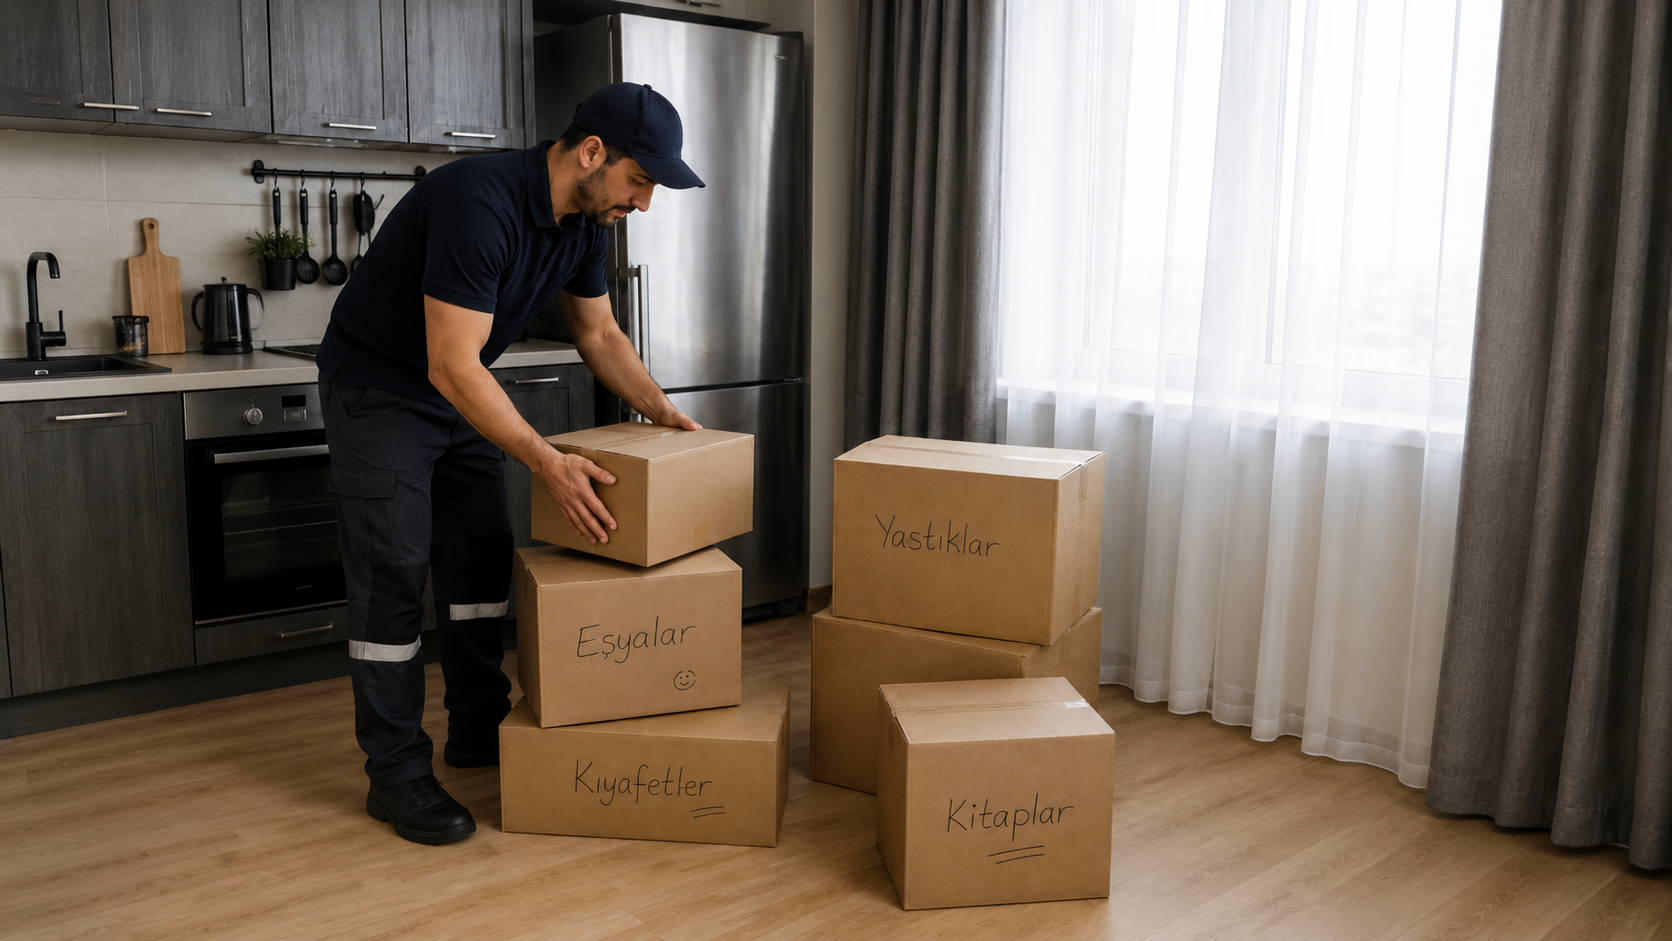
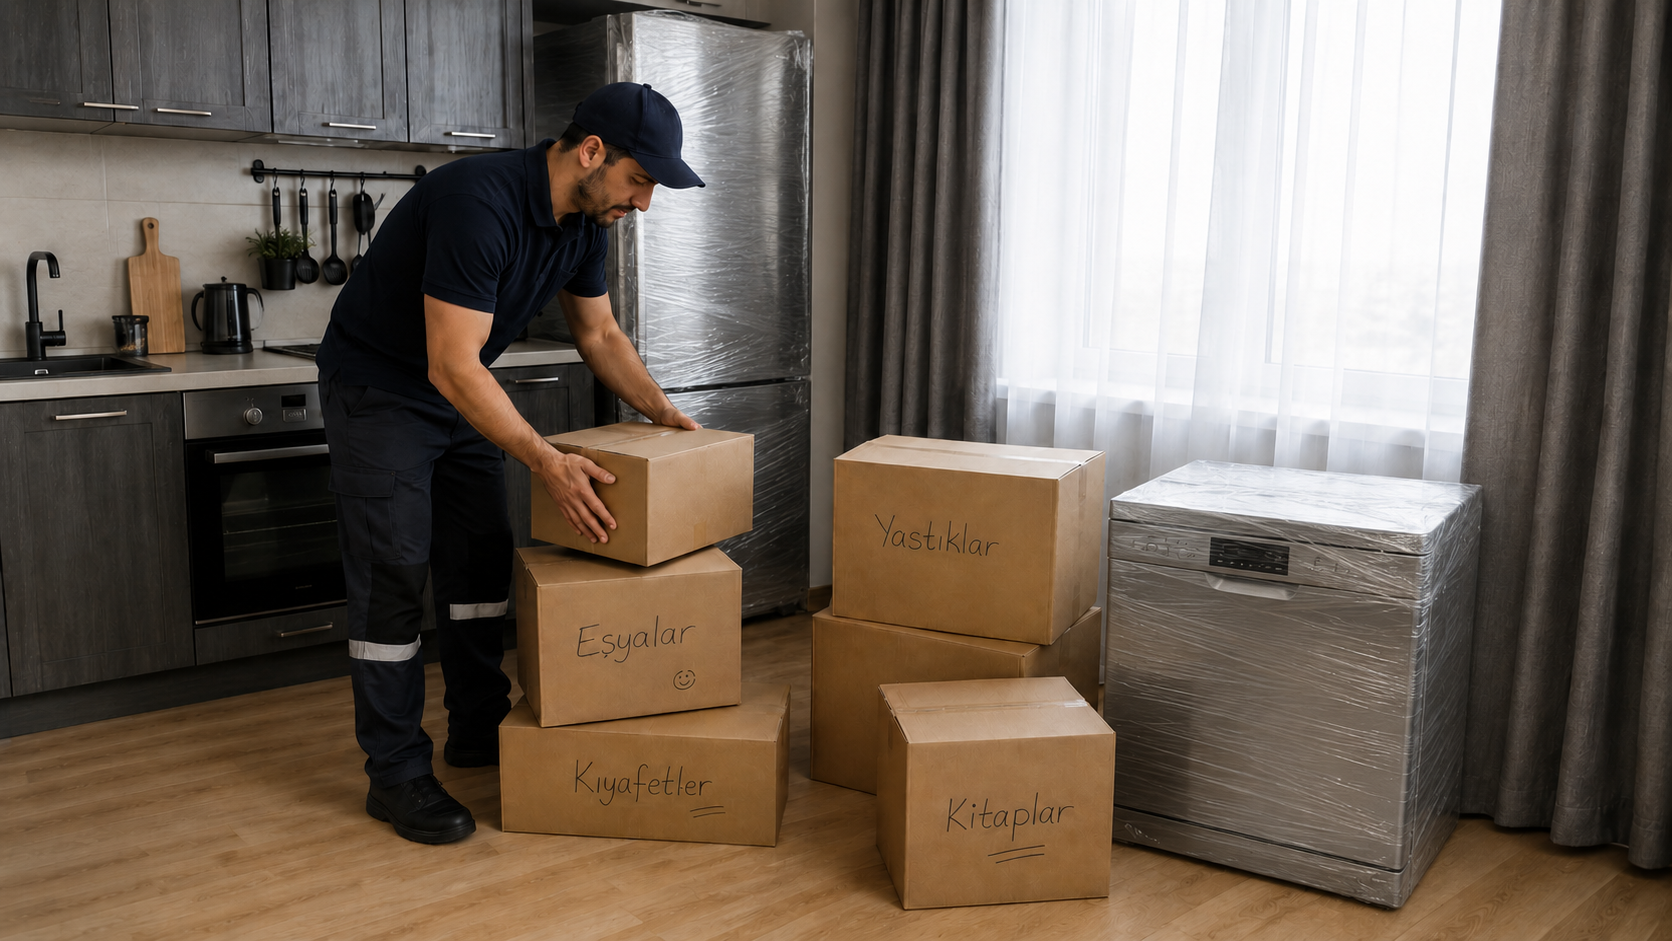
Add files via upload

diff --git a/index.html b/index.html
@@ -14,7 +14,7 @@ nav{display:flex;gap:20px;font-size:15px;font-weight:650;color:#334155}nav a:hov
 .btn{border:0;border-radius:999px;padding:12px 17px;font-weight:750;display:inline-flex;align-items:center;justify-content:center;gap:8px;cursor:pointer;transition:.2s;white-space:nowrap}.btn:hover{transform:translateY(-2px)}.blue{background:var(--blue);color:#fff;box-shadow:0 12px 26px rgba(37,99,235,.2)}.green{background:var(--green);color:#fff;box-shadow:0 12px 26px rgba(22,163,74,.18)}.light{background:#fff;border:1px solid var(--line)}
 .hero{padding:54px 0 50px;background:radial-gradient(circle at 12% 15%,rgba(37,99,235,.15),transparent 30%),radial-gradient(circle at 87% 10%,rgba(22,163,74,.12),transparent 28%),linear-gradient(135deg,#f8fafc,#eff6ff)}.hero-grid{display:grid;grid-template-columns:.95fr 1.05fr;gap:44px;align-items:center}.pill{display:inline-flex;gap:8px;background:rgba(37,99,235,.08);border:1px solid rgba(37,99,235,.18);color:#1e40af;border-radius:999px;padding:8px 13px;font-size:14px;font-weight:750;margin-bottom:17px}
 h1{font-size:clamp(36px,4.7vw,58px);line-height:1.05;letter-spacing:-.035em;font-weight:690;margin-bottom:17px}h2{font-size:clamp(30px,4.2vw,46px);line-height:1.08;letter-spacing:-.035em;font-weight:700}h3{font-weight:700;letter-spacing:-.025em}.lead{font-size:17px;color:#475569;max-width:600px;margin-bottom:16px}.price-note{background:#fff;border:1px solid #dbeafe;border-radius:19px;padding:13px 15px;color:#334155;margin:0 0 22px;box-shadow:0 10px 24px rgba(15,23,42,.04);max-width:600px}.price-note strong{color:#1d4ed8}.hero-actions{display:flex;gap:12px;flex-wrap:wrap;margin-bottom:20px}.trust{display:grid;grid-template-columns:repeat(3,1fr);gap:10px;max-width:600px}.trust div{background:rgba(255,255,255,.82);border:1px solid var(--line);border-radius:17px;padding:13px}.trust strong{display:block;font-size:17px}.trust span{font-size:13px;color:var(--muted)}
-.phone{background:#f0fdf4;border:1px solid #bbf7d0;border-radius:34px;box-shadow:var(--shadow);overflow:hidden;padding:14px;width:100%;max-width:640px;margin-left:auto}.phone-inner{background:#efeae2;border-radius:26px;overflow:hidden;min-height:auto;position:relative}.wa-head{height:62px;background:#075e54;color:white;display:flex;align-items:center;gap:10px;padding:0 14px}.avatar{width:38px;height:38px;border-radius:50%;background:#22c55e;display:grid;place-items:center;font-weight:800}.wa-head small{display:block;color:#d1fae5;font-size:12px}.wa-screen{height:430px;position:relative;overflow:hidden;background:#efeae2}.chat{position:absolute;inset:0;padding:13px;display:flex;flex-direction:column;gap:7px;overflow:hidden;transition:.45s ease}.phone-inner.show-gallery .chat{opacity:0;transform:translateY(-12px);pointer-events:none}.bubble{max-width:80%;padding:8px 10px;border-radius:14px;font-size:13.5px;box-shadow:0 1px 1px rgba(0,0,0,.06);animation:pop .28s ease}.user{align-self:flex-start;background:#fff;border-bottom-left-radius:4px}.us{align-self:flex-end;background:#d9fdd3;border-bottom-right-radius:4px}.system-msg{align-self:center;background:rgba(255,255,255,.72);color:#64748b;border-radius:999px;padding:6px 10px;font-size:12px;font-weight:650}@keyframes pop{from{opacity:0;transform:translateY(8px) scale(.98)}to{opacity:1;transform:none}}.process-gallery{position:absolute;inset:0;opacity:0;pointer-events:none;transition:.5s ease;background:#0f172a}.phone-inner.show-gallery .process-gallery{opacity:1;pointer-events:auto}.process-slide{position:absolute;inset:0;opacity:0;transition:.5s ease;display:grid;place-items:end start;overflow:hidden}.process-slide.active{opacity:1}.process-slide img{position:absolute;inset:0;width:100%;height:100%;object-fit:cover;object-position:center;display:block}.process-slide::after{content:"";position:absolute;inset:0;background:linear-gradient(180deg,rgba(15,23,42,.04),rgba(15,23,42,.72))}.process-fallback{position:absolute;inset:0;display:grid;place-items:center;font-size:62px;background:linear-gradient(135deg,#dbeafe,#f8fafc)}.process-caption{position:relative;z-index:2;color:white;padding:20px;width:100%}.process-caption b{display:block;font-size:21px;line-height:1.25;text-shadow:0 2px 10px rgba(0,0,0,.35)}.process-caption span{display:block;margin-top:4px;color:rgba(255,255,255,.86);font-size:13px;font-weight:600}.process-dots{position:absolute;left:14px;right:14px;top:12px;z-index:4;display:flex;gap:5px}.process-dot{height:4px;flex:1;border-radius:999px;background:rgba(255,255,255,.38);overflow:hidden}.process-dot.active{background:white}
+.phone{background:#f0fdf4;border:1px solid #bbf7d0;border-radius:34px;box-shadow:var(--shadow);overflow:hidden;padding:14px;width:100%;max-width:640px;margin-left:auto}.phone-inner{background:#efeae2;border-radius:26px;overflow:hidden;min-height:auto;position:relative}.wa-head{height:62px;background:#075e54;color:white;display:flex;align-items:center;gap:10px;padding:0 14px}.avatar{width:38px;height:38px;border-radius:50%;background:#22c55e;display:grid;place-items:center;font-weight:800}.wa-head small{display:block;color:#d1fae5;font-size:12px}.wa-screen{height:430px;position:relative;overflow:hidden;background:#efeae2}.chat{position:absolute;inset:0;padding:13px;display:flex;flex-direction:column;gap:7px;overflow-y:auto;scrollbar-width:none;transition:.45s ease}.phone-inner.show-gallery .chat{opacity:0;transform:translateY(-12px);pointer-events:none}.chat::-webkit-scrollbar{display:none}.bubble{max-width:80%;padding:8px 10px;border-radius:14px;font-size:13.5px;box-shadow:0 1px 1px rgba(0,0,0,.06);animation:pop .28s ease}.user{align-self:flex-start;background:#fff;border-bottom-left-radius:4px}.us{align-self:flex-end;background:#d9fdd3;border-bottom-right-radius:4px}.system-msg{align-self:center;background:rgba(255,255,255,.72);color:#64748b;border-radius:999px;padding:6px 10px;font-size:12px;font-weight:650}@keyframes pop{from{opacity:0;transform:translateY(8px) scale(.98)}to{opacity:1;transform:none}}.process-gallery{position:absolute;inset:0;opacity:0;pointer-events:none;transition:.5s ease;background:#0f172a}.phone-inner.show-gallery .process-gallery{opacity:1;pointer-events:auto}.process-slide{position:absolute;inset:0;opacity:0;transition:.5s ease;display:grid;place-items:end start;overflow:hidden}.process-slide.active{opacity:1}.process-slide img{position:absolute;inset:0;width:100%;height:100%;object-fit:cover;object-position:center;display:block}.process-slide::after{content:"";position:absolute;inset:0;background:linear-gradient(180deg,rgba(15,23,42,.04),rgba(15,23,42,.72))}.process-fallback{position:absolute;inset:0;display:grid;place-items:center;font-size:62px;background:linear-gradient(135deg,#dbeafe,#f8fafc)}.process-caption{position:relative;z-index:2;color:white;padding:20px;width:100%}.process-caption b{display:block;font-size:21px;line-height:1.25;text-shadow:0 2px 10px rgba(0,0,0,.35)}.process-caption span{display:block;margin-top:4px;color:rgba(255,255,255,.86);font-size:13px;font-weight:600}.process-dots{position:absolute;left:14px;right:14px;top:12px;z-index:4;display:flex;gap:5px}.process-dot{height:4px;flex:1;border-radius:999px;background:rgba(255,255,255,.38);overflow:hidden}.process-dot.active{background:white}
 section{padding:64px 0}.head{display:flex;justify-content:space-between;gap:24px;align-items:end;margin-bottom:28px}.head p{max-width:500px;color:var(--muted)}.eyebrow{font-size:13px;color:var(--blue);font-weight:800;text-transform:uppercase;letter-spacing:.11em;margin-bottom:7px}
 .services{display:grid;grid-template-columns:repeat(3,1fr);gap:16px}.service{background:#fff;border:1px solid var(--line);border-radius:var(--r);overflow:hidden;box-shadow:0 10px 28px rgba(15,23,42,.05);transition:.2s}.service:hover{transform:translateY(-3px);box-shadow:var(--shadow)}.thumb{aspect-ratio:16/9;height:auto;background:linear-gradient(135deg,#dbeafe,#f8fafc);display:grid;place-items:center;font-size:52px;position:relative;overflow:hidden}.service:nth-child(2n) .thumb{background:linear-gradient(135deg,#dcfce7,#f8fafc)}.service:nth-child(3n) .thumb{background:linear-gradient(135deg,#ffedd5,#f8fafc)}.thumb small{position:absolute;right:10px;bottom:9px;background:rgba(255,255,255,.85);border-radius:999px;padding:4px 8px;font-size:12px;color:#475569;font-weight:700}.thumb img{width:100%;height:100%;object-fit:cover;display:block}.thumb-fallback{position:absolute;inset:0;display:grid;place-items:center;font-size:52px;z-index:0}.thumb img:not([style*='display: none']) + .thumb-fallback{display:none}.service-body{padding:19px}.service p{color:var(--muted);font-size:15px;margin:8px 0 14px}.link{color:var(--blue);font-weight:750;font-size:14px}
 .steps{background:#fff}.steps-grid{display:grid;grid-template-columns:repeat(4,1fr);gap:14px}.step{background:var(--bg);border:1px solid var(--line);border-radius:20px;padding:20px}.num{width:38px;height:38px;border-radius:13px;background:var(--ink);color:white;display:grid;place-items:center;font-weight:800;margin-bottom:12px}.step p{color:var(--muted);font-size:14px;margin-top:6px}
@@ -37,7 +37,7 @@ footer{background:var(--dark);color:rgba(255,255,255,.72);padding:34px 0 90px}.f
 @keyframes waEnter{from{opacity:0;transform:translateY(18px) scale(.96)}to{opacity:1;transform:translateY(0) scale(1)}}
 @keyframes waNudge{0%,100%{transform:translateY(0)}45%{transform:translateY(-6px)}}
 @media(max-width:960px){nav,.actions{display:none}.menu{display:block}nav.open{display:grid;position:absolute;left:16px;right:16px;top:72px;background:white;border:1px solid var(--line);border-radius:20px;padding:16px;box-shadow:var(--shadow)}.hero-grid,.request-grid,.faq-grid{grid-template-columns:1fr}.phone{margin:0;max-width:100%}.services{grid-template-columns:repeat(2,1fr)}.steps-grid,.districts{grid-template-columns:repeat(2,1fr)}}
-@media(max-width:640px){.top .container{text-align:center;justify-content:center}.hero,section{padding:46px 0}.hero-actions,.form-actions,.modal-actions{flex-direction:column;align-items:stretch}.btn{width:100%}.trust,.services,.steps-grid,.districts,.form-grid{grid-template-columns:1fr}.phone{border-radius:26px;padding:10px}.phone-inner{min-height:auto;border-radius:20px}.wa-screen{height:360px}.head{display:block}.head p{margin-top:10px}.mobile-sticky{display:none}.floating-wa{right:16px;bottom:16px;min-width:220px;height:60px;padding-right:15px}.wa-text strong{font-size:13px}.wa-text small{font-size:11px}.floating-wa.compact{min-width:62px;width:62px;height:62px}.floating-wa.compact .wa-icon{width:62px;height:62px}.floating-wa.compact .wa-icon svg{width:32px;height:32px}.toast{left:16px;right:16px;bottom:88px}}
+@media(max-width:640px){.top .container{text-align:center;justify-content:center}.hero,section{padding:46px 0}.hero-actions,.form-actions,.modal-actions{flex-direction:column;align-items:stretch}.btn{width:100%}.trust,.services,.steps-grid,.districts,.form-grid{grid-template-columns:1fr}.phone{border-radius:24px;padding:8px;max-width:100%}.phone-inner{min-height:auto;border-radius:20px}.wa-screen{height:460px}.head{display:block}.head p{margin-top:10px}.mobile-sticky{display:none}.bubble{font-size:13px;line-height:1.42;padding:7px 9px;max-width:86%}.system-msg{font-size:11.5px;padding:5px 9px}.floating-wa{right:16px;bottom:16px;min-width:220px;height:60px;padding-right:15px}.wa-text strong{font-size:13px}.wa-text small{font-size:11px}.floating-wa.compact{min-width:62px;width:62px;height:62px}.floating-wa.compact .wa-icon{width:62px;height:62px}.floating-wa.compact .wa-icon svg{width:32px;height:32px}.toast{left:16px;right:16px;bottom:88px}}
 </style>
 </head>
 <body>
@@ -57,7 +57,7 @@ footer{background:var(--dark);color:rgba(255,255,255,.72);padding:34px 0 90px}.f
     <p class="lead">Evden eve, parça eşya, şehirler arası, asansörlü, ofis veya özel eşya taşıma için bilgilerinizi paylaşın. Size dönüş yapılması ve sürecin netleşmesi için yardımcı olalım.</p>
     <div class="price-note"><strong>Fiyat konusunda destek:</strong> Güzergâh, eşya durumu ve tarihe göre bütçenize uygun seçeneklerin konuşulmasına yardımcı oluruz. Net fiyat görüşme sırasında belirlenir.</div>
     <div class="hero-actions"><button class="btn green openWhatsapp">WhatsApp’tan Talep Oluştur</button><a class="btn blue" href="#request">Formu Doldur</a></div>
-    <div class="trust"><div><strong>Hızlı dönüş</strong><span>WhatsApp ön görüşme</span></div><div><strong>Uygun çözüm</strong><span>İhtiyaca göre seçenek</span></div><div><strong>Sade süreç</strong><span>Az bilgiyle başlayın</span></div></div>
+    <div class="trust"><div><strong>Hızlı dönüş</strong><span>WhatsApp ön görüşme</span></div><div><strong>Uygun çözüm</strong><span>İhtiyaca göre seçenek</span></div><div><strong>Kolay süreç</strong><span>Sorunsuz ilerlemesi için yardımcı oluruz</span></div></div>
   </div>
   <div class="phone"><div class="phone-inner">
     <div class="wa-head"><div class="avatar">U</div><div><b>Uygun Nakliye İzmir</b><small>çevrimiçi</small></div></div>
@@ -67,8 +67,8 @@ footer{background:var(--dark);color:rgba(255,255,255,.72);padding:34px 0 90px}.f
       <div class="process-gallery" id="processGallery" aria-label="Taşıma süreci görsel slaytları">
         <!-- Görsel eklemek için src değerlerini kendi dosya yollarınızla değiştirin.
              Örnek dosya yapısı:
-             assets/kamyon-dolduruluyor.png, assets/kamyon-dolu.png, assets/kamyon-hareket.png,
-             assets/asansorlu-tasima.png, assets/son-koliler-yeni-ev.png -->
+             assets/kamyon-dolduruluyor.jpg, assets/kamyon-dolu.jpg, assets/kamyon-hareket.jpg,
+             assets/asansorlu-tasima.jpg, assets/son-koliler-yeni-ev.jpg -->
         <div class="process-dots" aria-hidden="true">
           <span class="process-dot active"></span>
           <span class="process-dot"></span>
@@ -141,6 +141,7 @@ footer{background:var(--dark);color:rgba(255,255,255,.72);padding:34px 0 90px}.f
     <button class="district" data-district="Karabağlar"><strong>Karabağlar</strong><span>Ev, iş yeri ve parça eşya</span></button>
     <button class="district" data-district="Çiğli"><strong>Çiğli</strong><span>Ev taşıma ve şehir içi talepler</span></button>
     <button class="district" data-district="Gaziemir"><strong>Gaziemir</strong><span>Şehirler arası ve iş yeri</span></button>
+    <button class="district" data-district="Diğer"><strong>Bunların dışında bir yerdeyim</strong><span>İzmir geneli, çevre ilçeler ve çevre iller</span></button>
   </div>
 </div></section>
 
@@ -171,7 +172,7 @@ footer{background:var(--dark);color:rgba(255,255,255,.72);padding:34px 0 90px}.f
 </div></section>
 </main>
 
-<footer><div class="container footer-grid"><div><strong>Uygun Nakliye İzmir</strong><p>İzmir hızlı nakliye talep ve destek hattı.</p></div><div class="footer-links"><a href="#services">Hizmetler</a><a href="#districts">İlçeler</a><a href="#request">Talep Oluştur</a><a href="#" class="openPolicy">Aydınlatma Metni</a></div></div></footer>
+<footer><div class="container footer-grid"><div><strong>Uygun Nakliye İzmir</strong><p>İzmir hızlı nakliye talep ve destek hattı.</p><p style="font-size:13px;margin-top:8px;color:rgba(255,255,255,.58)">Sitede kullanılan görseller temsilidir. Hizmet detayları, fiyat ve uygunluk talebinize göre görüşme sırasında netleşir.</p></div><div class="footer-links"><a href="#services">Hizmetler</a><a href="#districts">İlçeler</a><a href="#request">Talep Oluştur</a><a href="#" class="openPolicy">Aydınlatma Metni</a></div></div></footer>
 <button class="floating-wa openWhatsapp" aria-label="WhatsApp ile nakliye talebi oluştur">
   <span class="wa-icon" aria-hidden="true">
     <svg viewBox="0 0 64 64" role="img">
@@ -229,7 +230,7 @@ function startProcessGallery(){
     phoneInner.classList.remove("show-gallery");
     c=(c+1)%chats.length;
     runChat();
-  },14200);
+  },15000);
 }
 
 function runChat(){
@@ -240,14 +241,15 @@ function runChat(){
   function next(){
     const arr=chats[c];
     if(m>=arr.length){
-      setTimeout(startProcessGallery,1200);
+      setTimeout(startProcessGallery,2000);
       return;
     }
     const [who,text]=arr[m++], d=document.createElement("div");
     d.className="bubble "+who;
     d.textContent=text;
     chatBox.appendChild(d);
-    setTimeout(next,1750);
+    chatBox.scrollTop=chatBox.scrollHeight;
+    setTimeout(next,1900);
   }
   next();
 }
@@ -312,7 +314,8 @@ const districts={
   "Konak":{desc:"Konak merkezi konumu nedeniyle ofis, küçük ev ve parça eşya taşıma taleplerinde sık kullanılan bir bölgedir. Dar sokak, park ve kat bilgisi fiyatı etkileyebilir.",to:["Bornova","Buca","Karabağlar","Bayraklı","Karşıyaka"],samples:["“Konak’taki ofisten birkaç masa ve dolap taşınacak.”","“Dar sokak olduğu için araç yanaşma durumunu konuşmak istiyoruz.”"]},
   "Karabağlar":{desc:"Karabağlar ev taşıma, iş yeri eşyası ve parça eşya talepleri için değerlendirilebilir. Kat ve asansör bilgisi hızlı fiyat görüşmesi için faydalıdır.",to:["Buca","Konak","Gaziemir","Bornova"],samples:["“Karabağlar’dan Buca’ya ev eşyası taşınacak.”","“Az eşya için uygun bir taşıma arıyoruz.”"]},
   "Çiğli":{desc:"Çiğli çıkışlı veya varışlı taşımalarda Karşıyaka, Bayraklı ve Bornova güzergâhları sık tercih edilebilir. Eşya miktarı ve tarih bilgisini paylaşmanız yeterlidir.",to:["Karşıyaka","Bayraklı","Bornova","Menemen","Konak"],samples:["“Çiğli’den Karşıyaka’ya parça eşya taşınacak.”","“Tarih esnek, uygun fiyatlı taşıma arıyoruz.”"]},
-  "Gaziemir":{desc:"Gaziemir için şehir içi, şehirler arası, iş yeri ve özel eşya taşıma talepleri değerlendirilebilir. Güzergâh ve araç yanaşma bilgisi önemlidir.",to:["Buca","Karabağlar","Konak","Bornova","Menderes","Şehirler arası"],samples:["“Gaziemir’den şehir dışına birkaç parça eşya götürülecek.”","“İş yeri ekipmanı için taşıma desteği arıyoruz.”"]}
+  "Gaziemir":{desc:"Gaziemir için şehir içi, şehirler arası, iş yeri ve özel eşya taşıma talepleri değerlendirilebilir. Güzergâh ve araç yanaşma bilgisi önemlidir.",to:["Buca","Karabağlar","Konak","Bornova","Menderes","Şehirler arası"],samples:["“Gaziemir’den şehir dışına birkaç parça eşya götürülecek.”","“İş yeri ekipmanı için taşıma desteği arıyoruz.”"]},
+  "Diğer":{desc:"Bulunduğunuz ilçe listede yoksa yine de nakliye talebi oluşturabilirsiniz. İzmir geneli, çevre ilçeler, Manisa gibi yakın iller ve şehirler arası taşınma talepleri için güzergâhınızı kısaca paylaşmanız yeterlidir.",to:["Torbalı’dan Bornova’ya","Manisa’dan İzmir’e","İzmir’den şehir dışına"],samples:["“Torbalı’dan Bornova’ya taşınmak istiyoruz, uygun fiyatlı nakliye arıyoruz.”","“Manisa’dan İzmir’e birkaç parça eşya taşınacak.”","“İzmir’den şehir dışına taşınmak için destek almak istiyoruz.”"]}
 };
 
 const dModal=document.getElementById("districtModal");
@@ -320,11 +323,11 @@ let dName="",sampleTimer;
 document.querySelectorAll(".district").forEach(b=>b.onclick=()=>{
   dName=b.dataset.district;
   const d=districts[dName];
-  document.getElementById("districtTitle").textContent=`${dName} Nakliye Talebi`;
+  document.getElementById("districtTitle").textContent=dName==="Diğer" ? "Farklı Bölgeden Nakliye Talebi" : `${dName} Nakliye Talebi`;
   document.getElementById("districtDesc").textContent=d.desc;
-  document.getElementById("districtQuestion").textContent=`${dName}'dan nereye?`;
+  document.getElementById("districtQuestion").textContent=dName==="Diğer" ? "Nereden nereye taşınacaksınız?" : `${dName}'dan nereye?`;
   document.getElementById("districtTo").value="";
-  document.getElementById("districtTo").placeholder=`Örnek: ${d.to.slice(0,3).join(", ")} veya şehirler arası`;
+  document.getElementById("districtTo").placeholder=dName==="Diğer" ? `Örnek: ${d.to.slice(0,3).join(", ")}` : `Örnek: ${d.to.slice(0,3).join(", ")} veya şehirler arası`;
   document.getElementById("districtNote").value="";
   let i=0;
   document.getElementById("sampleSlider").textContent=d.samples[0];
@@ -334,12 +337,18 @@ document.querySelectorAll(".district").forEach(b=>b.onclick=()=>{
 });
 document.querySelectorAll(".closeDistrict").forEach(b=>b.onclick=()=>dModal.classList.remove("show"));
 document.getElementById("districtWhatsapp").onclick=()=>{
-  const msg=`Merhaba, ${dName} çıkışlı nakliye talebi oluşturmak istiyorum.
+  const routeValue=document.getElementById("districtTo").value || "Detayları WhatsApp üzerinden paylaşacağım";
+  const msg=dName==="Diğer" ? `Merhaba, nakliye talebi oluşturmak istiyorum.
+
+Talep Kodu: ${leadId()}
+
+Güzergâh: ${routeValue}
+Açıklama: ${document.getElementById("districtNote").value || "Detayları WhatsApp üzerinden paylaşmak istiyorum."}` : `Merhaba, ${dName} çıkışlı nakliye talebi oluşturmak istiyorum.
 
 Talep Kodu: ${leadId()}
 
 Nereden: İzmir / ${dName}
-Nereye: ${document.getElementById("districtTo").value || "Detayları WhatsApp üzerinden paylaşacağım"}
+Nereye: ${routeValue}
 Açıklama: ${document.getElementById("districtNote").value || "Detayları WhatsApp üzerinden paylaşmak istiyorum."}`;
   dModal.classList.remove("show");
   openConsent(msg)
